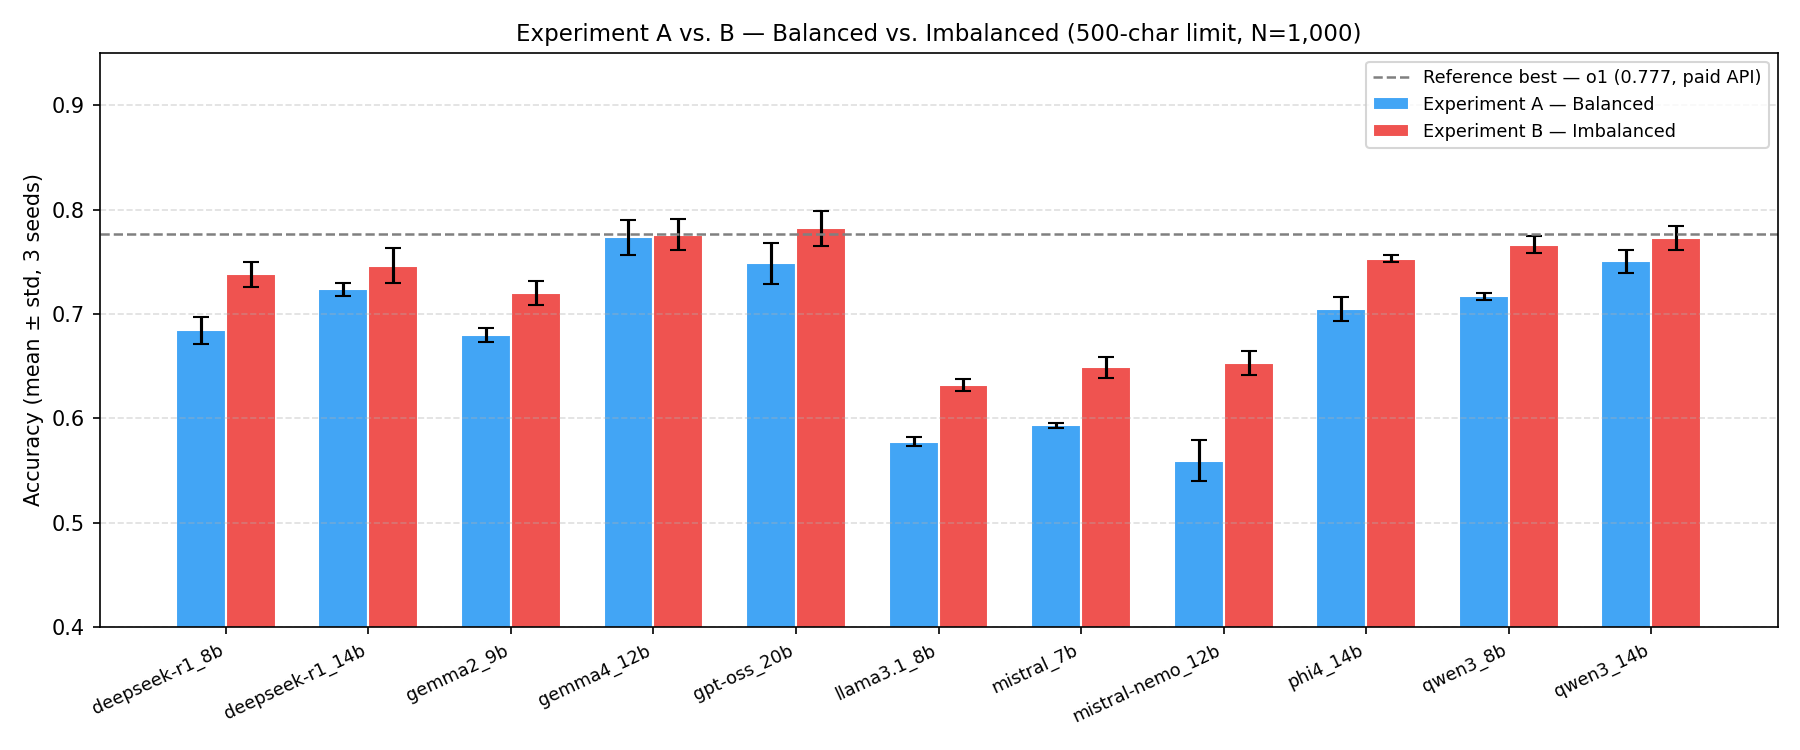
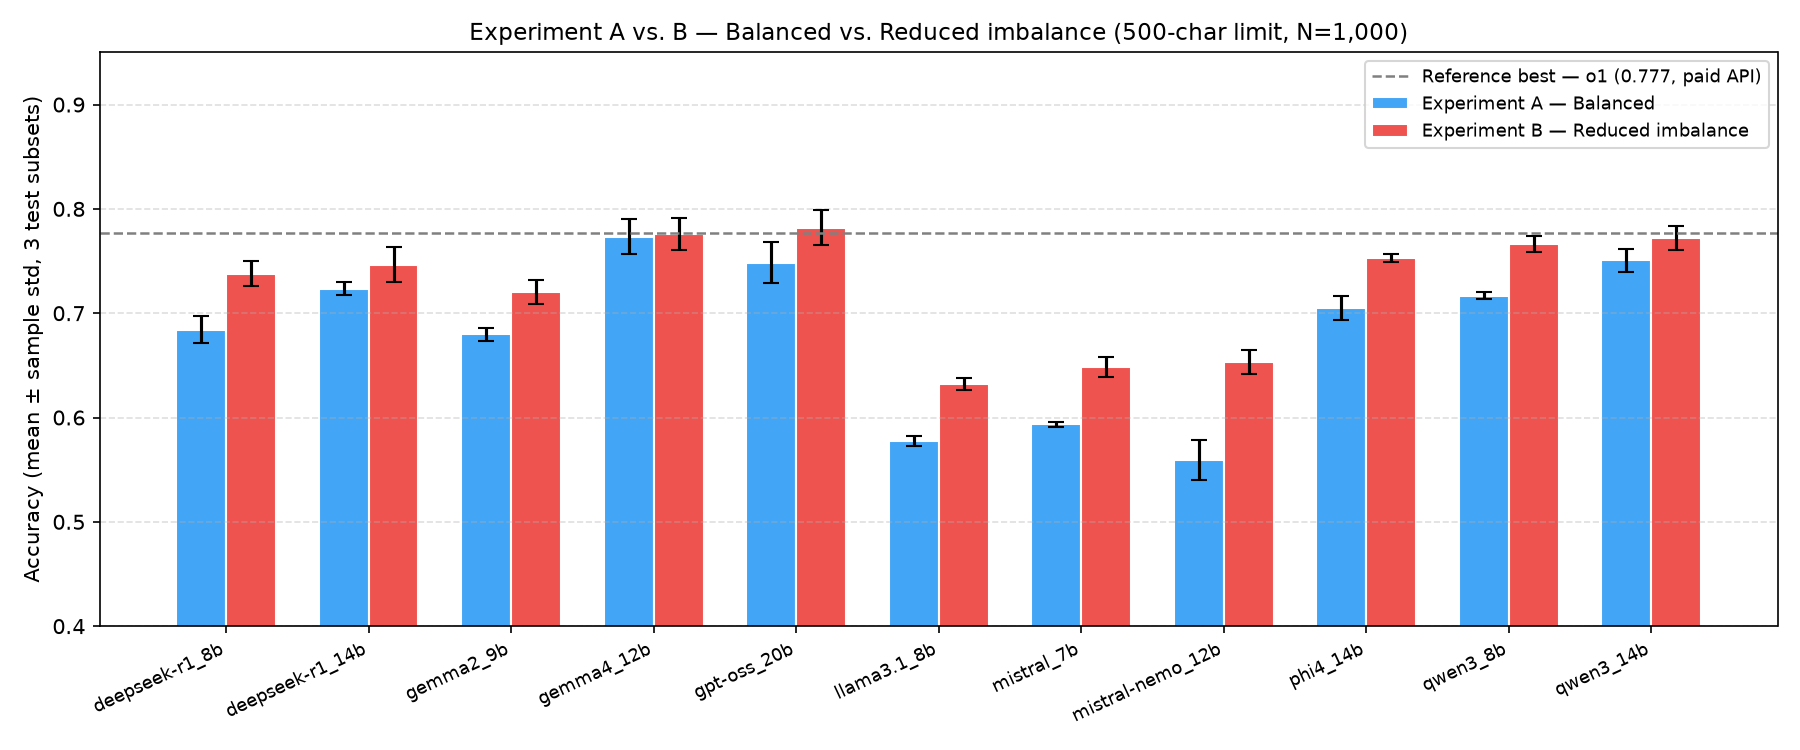
**

diff --git a/utils/analyze_seeds.py b/utils/analyze_seeds.py
@@ -1,8 +1,8 @@
 """
 utils/analyze_seeds.py — Multi-seed analysis for the revised paper.
 
-Reads all 132 prediction files from preds/ (3 seeds × 2 sizes × 2 conditions × 11 models),
-computes per-run metrics, aggregates across seeds (mean ± std), and produces:
+Reads all 132 prediction files from preds/ (3 test subsets × 2 sizes × 2 conditions × 11 models),
+computes per-run metrics, aggregates across test subsets (mean ± std), and produces:
   - results/table_balanced.csv
   - results/table_imbalanced.csv
   - results/table_size_sensitivity.csv
@@ -61,6 +61,7 @@ FNAME_PAT = re.compile(
 REASONING = {"deepseek-r1_14b", "deepseek-r1_8b", "qwen3_8b", "qwen3_14b", "gpt-oss_20b"}
 COLOR_R = "#1565C0"
 COLOR_S = "#90CAF9"
+COLOR_U = "#9E9E9E"
 
 REFERENCE = {
     "o1 (paid API)":                {"acc": 0.777, "f1": 0.7764, "cost": "$24.24"},
@@ -109,6 +110,8 @@ def compute_metrics(df: pd.DataFrame) -> dict:
 
 
 def mcolor(model: str) -> str:
+    if model == "gemma4_12b":
+        return COLOR_U
     return COLOR_R if model in REASONING else COLOR_S
 
 
@@ -174,12 +177,13 @@ def plot_f1_errbar(agg: pd.DataFrame, title: str, fname: str) -> None:
                 list(df["model"]).index(row["model"]),
                 f'{row["f1_weighted_mean"]:.4f} ± {row["f1_weighted_std"]:.4f}',
                 va="center", fontsize=7.5)
-    ax.set_xlabel("Weighted F1-Score (mean ± std, 3 seeds)", fontsize=10)
+    ax.set_xlabel("Weighted F1-Score (mean ± sample std, 3 test subsets)", fontsize=10)
     ax.set_title(title, fontsize=11)
     ax.set_xlim(0.40, 1.02)
     ax.grid(axis="x", linestyle="--", alpha=0.4)
     leg = [mpatches.Patch(color=COLOR_R, label="Reasoning"),
-           mpatches.Patch(color=COLOR_S, label="Standard")]
+           mpatches.Patch(color=COLOR_S, label="Standard"),
+           mpatches.Patch(color=COLOR_U, label="Gemma 4: thinking mode unverified")]
     ax.legend(handles=leg, loc="lower right", fontsize=9)
     plt.tight_layout()
     fig.savefig(fname, dpi=150)
@@ -199,12 +203,12 @@ def plot_comparison_ab(agg_a: pd.DataFrame, agg_b: pd.DataFrame, fname: str) -> 
     fig, ax = plt.subplots(figsize=(12, 5))
     ax.bar(x - w/2, a_vals, w, yerr=a_std, label="Experiment A — Balanced",
            color="#42A5F5", edgecolor="white", capsize=4)
-    ax.bar(x + w/2, b_vals, w, yerr=b_std, label="Experiment B — Imbalanced",
+    ax.bar(x + w/2, b_vals, w, yerr=b_std, label="Experiment B — Reduced imbalance",
            color="#EF5350", edgecolor="white", capsize=4)
     ax.set_xticks(x)
     ax.set_xticklabels(models, rotation=25, ha="right", fontsize=8.5)
-    ax.set_ylabel("Accuracy (mean ± std, 3 seeds)", fontsize=10)
-    ax.set_title("Experiment A vs. B — Balanced vs. Imbalanced (500-char limit, N=1,000)", fontsize=11)
+    ax.set_ylabel("Accuracy (mean ± sample std, 3 test subsets)", fontsize=10)
+    ax.set_title("Experiment A vs. B — Balanced vs. Reduced imbalance (500-char limit, N=1,000)", fontsize=11)
     ax.axhline(0.777, color="gray", linestyle="--", linewidth=1.2,
                label="Reference best — o1 (0.777, paid API)")
     ax.set_ylim(0.40, 0.95)
@@ -229,8 +233,9 @@ def plot_size_sensitivity(raw: pd.DataFrame, condition: str, fname: str) -> None
                         fmt=marker, color=color, linestyle=ls,
                         capsize=4, markersize=7,
                         label=f"{size}-char" if model == MODELS[0] else "")
-    ax.set_ylabel("Accuracy (mean ± std)", fontsize=10)
-    ax.set_title(f"Narrative Length Sensitivity — {condition.capitalize()} Condition", fontsize=11)
+    ax.set_ylabel("Accuracy (mean ± sample std, 3 test subsets)", fontsize=10)
+    condition_label = "Reduced imbalance" if condition == "imbalanced" else "Balanced"
+    ax.set_title(f"Narrative Length Sensitivity — {condition_label}", fontsize=11)
     ax.tick_params(axis="x", rotation=25)
     ax.grid(axis="y", linestyle="--", alpha=0.4)
     leg_size = [
@@ -238,6 +243,7 @@ def plot_size_sensitivity(raw: pd.DataFrame, condition: str, fname: str) -> None
         mpatches.Patch(color="gray", label="500-char (■)"),
         mpatches.Patch(color=COLOR_R, label="Reasoning"),
         mpatches.Patch(color=COLOR_S, label="Standard"),
+        mpatches.Patch(color=COLOR_U, label="Gemma 4: thinking mode unverified"),
     ]
     ax.legend(handles=leg_size, fontsize=8.5)
     plt.tight_layout()
@@ -268,7 +274,7 @@ def plot_vs_reference(agg_a: pd.DataFrame, fname: str) -> None:
     palette = {
         "Reasoning (open-weight)": COLOR_R,
         "Standard (open-weight)":  COLOR_S,
-        "Unverified mode (open-weight)": "#999999",
+        "Unverified mode (open-weight)": COLOR_U,
         "Paid API":                "#E57373",
     }
     colors = [palette[t] for t in combined["type"]]
@@ -411,7 +417,7 @@ def main():
     raw = load_all()
     print(f"  {len(raw)} files loaded.")
     print(f"  Models:     {sorted(raw['model'].unique())}")
-    print(f"  Seeds:      {sorted(raw['seed'].unique())}")
+    print(f"  Test subsets: {sorted(raw['seed'].unique())}")
     print(f"  Conditions: {sorted(raw['condition'].unique())}")
     print(f"  Sizes:      {sorted(raw['size'].unique())}")
 
@@ -425,7 +431,7 @@ def main():
     tbl_a.to_csv(os.path.join(RESULTS_DIR, "table_balanced_500.csv"), index=False)
 
     print("\n" + "="*60)
-    print("  Experiment B — Imbalanced, 500-char limit")
+    print("  Experiment B — Reduced imbalance, 500-char limit")
     print("="*60)
     agg_b500 = aggregate(raw, "imbalanced", 500)
     tbl_b = build_summary_table(agg_b500)
@@ -457,12 +463,12 @@ def main():
     print("\nGenerating figures...")
     plot_f1_errbar(
         agg_a500,
-        title="Weighted F1-Score — Balanced Experiment (500-char limit, N=1,000, mean ± std, 3 seeds)",
+        title="Weighted F1-Score — Balanced (500-char limit, N=1,000, 3 test subsets)",
         fname=os.path.join(FIGS_DIR, "f1_balanced_errbar.png"),
     )
     plot_f1_errbar(
         agg_b500,
-        title="Weighted F1-Score — Imbalanced Experiment (500-char limit, N=1,000, mean ± std, 3 seeds)",
+        title="Weighted F1-Score — Reduced imbalance (500-char limit, N=1,000, 3 test subsets)",
         fname=os.path.join(FIGS_DIR, "f1_imbalanced_errbar.png"),
     )
     plot_comparison_ab(
